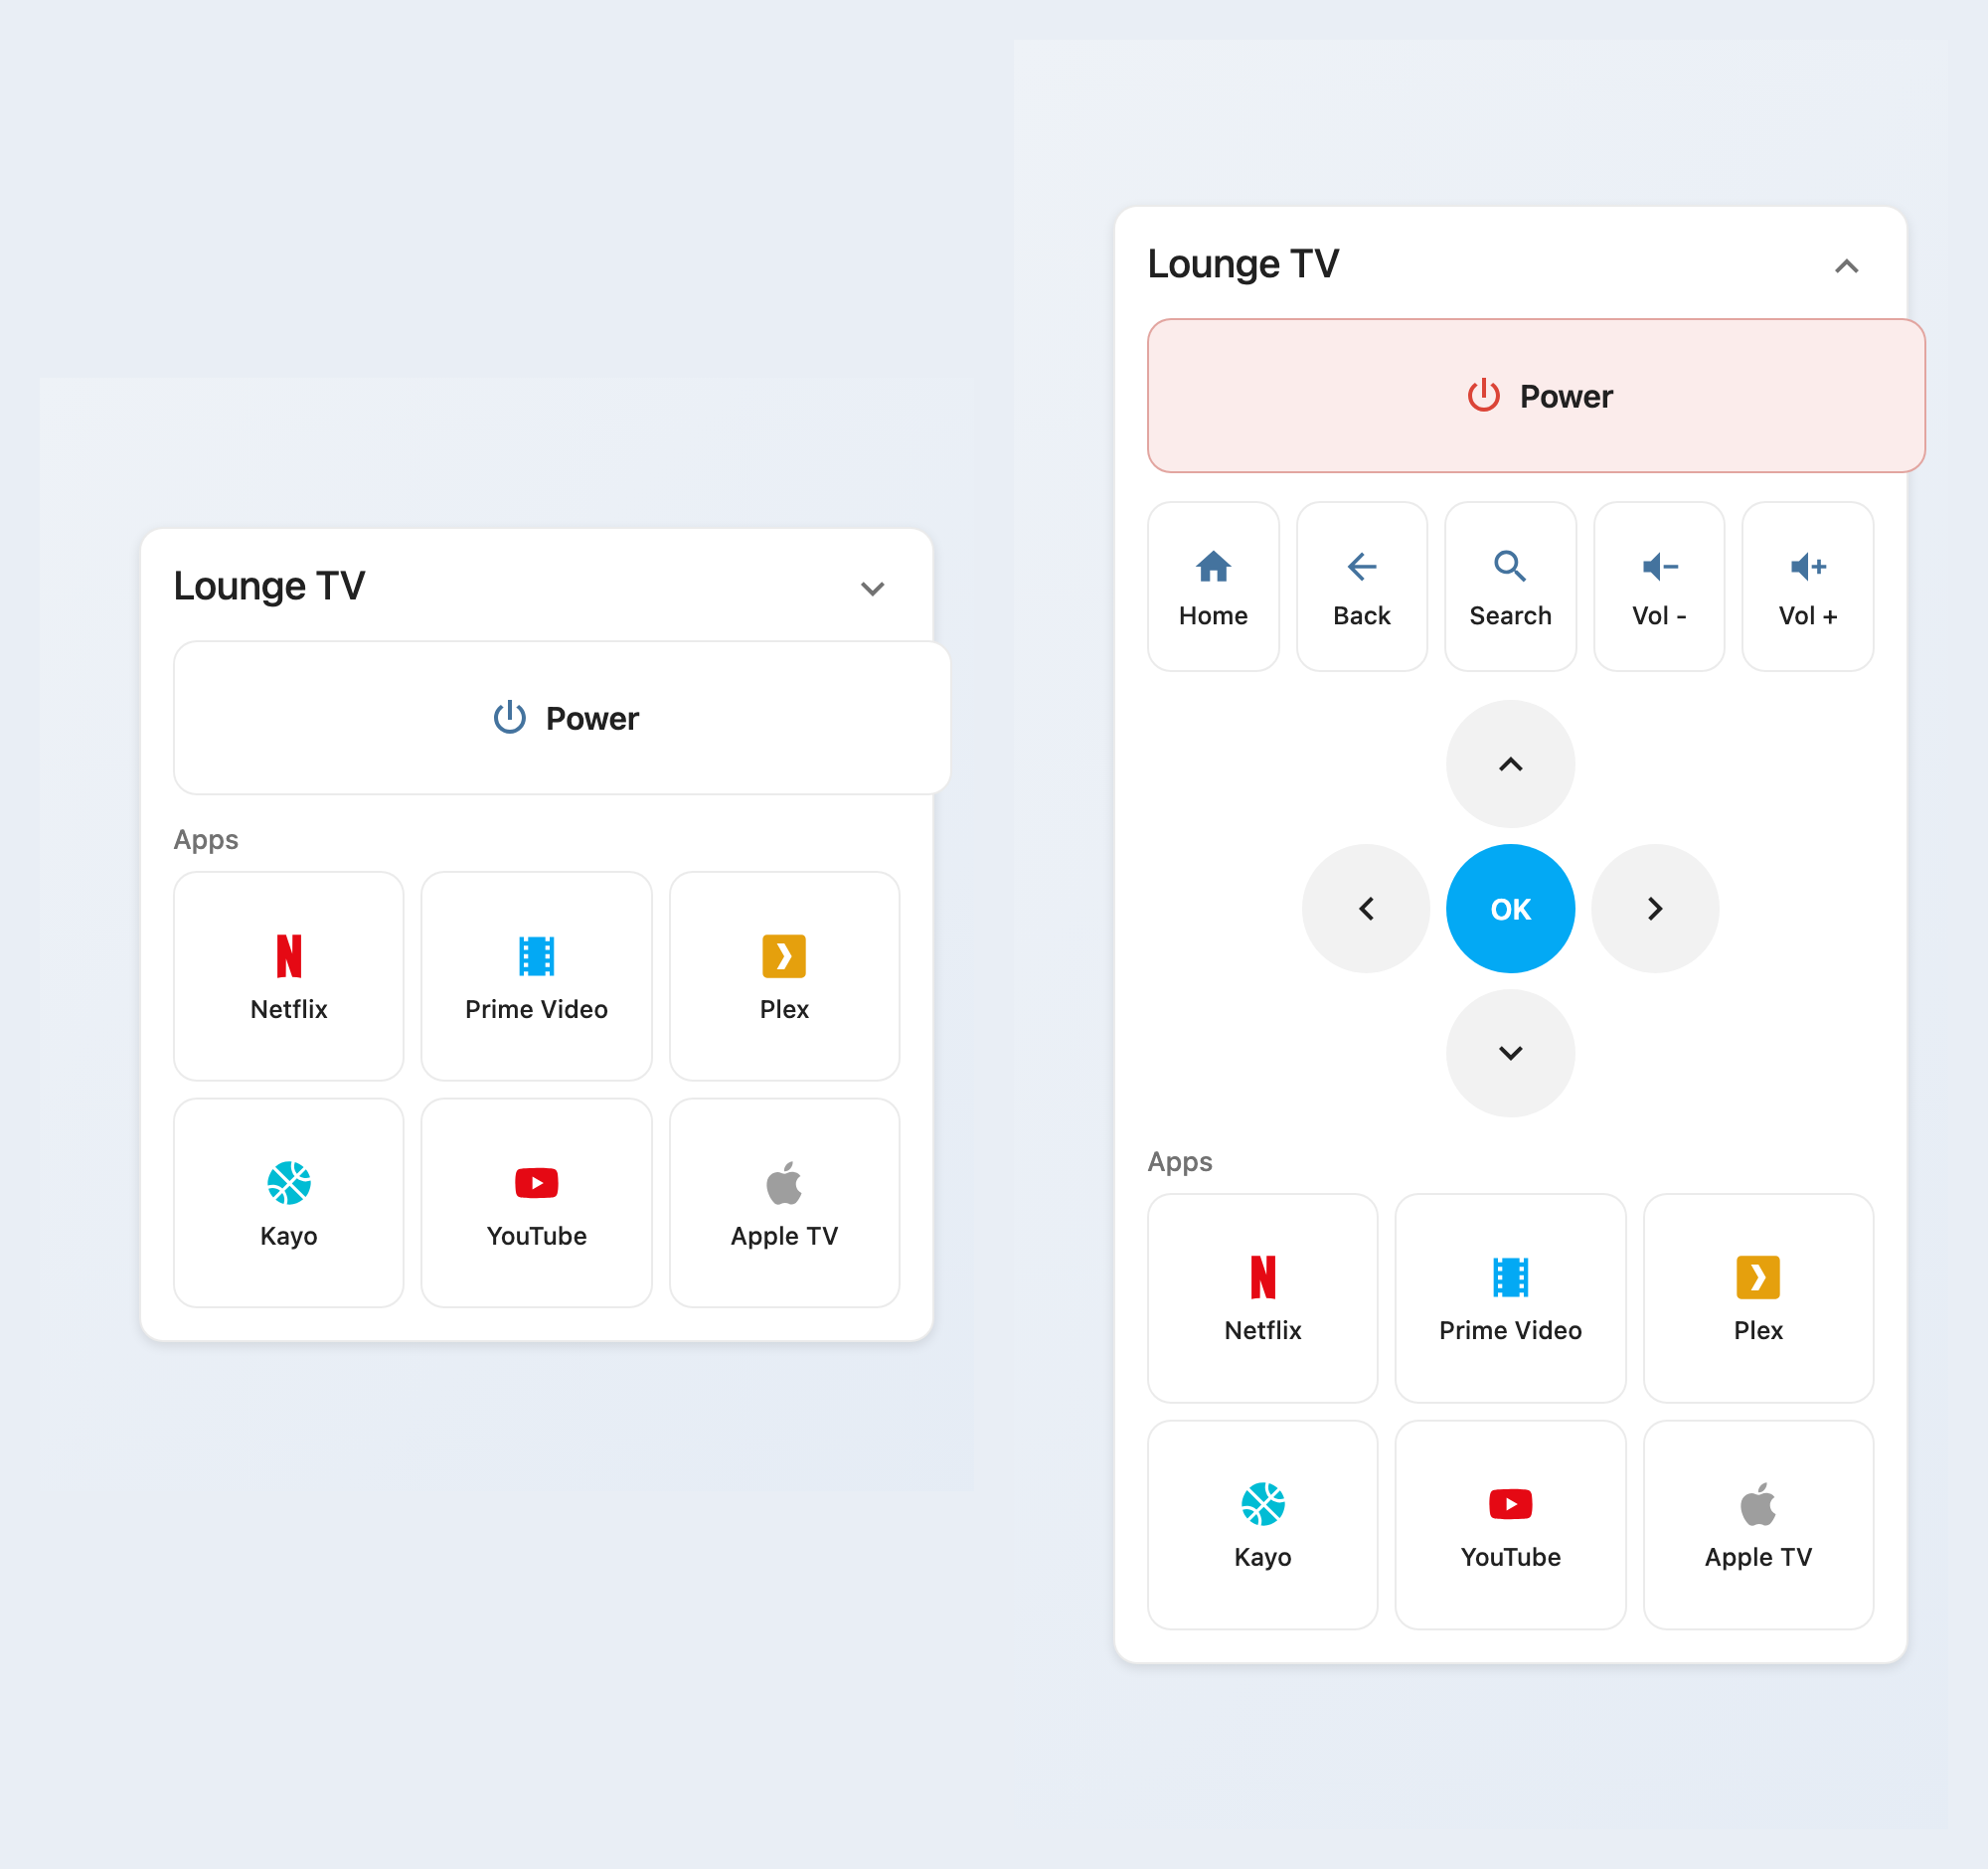
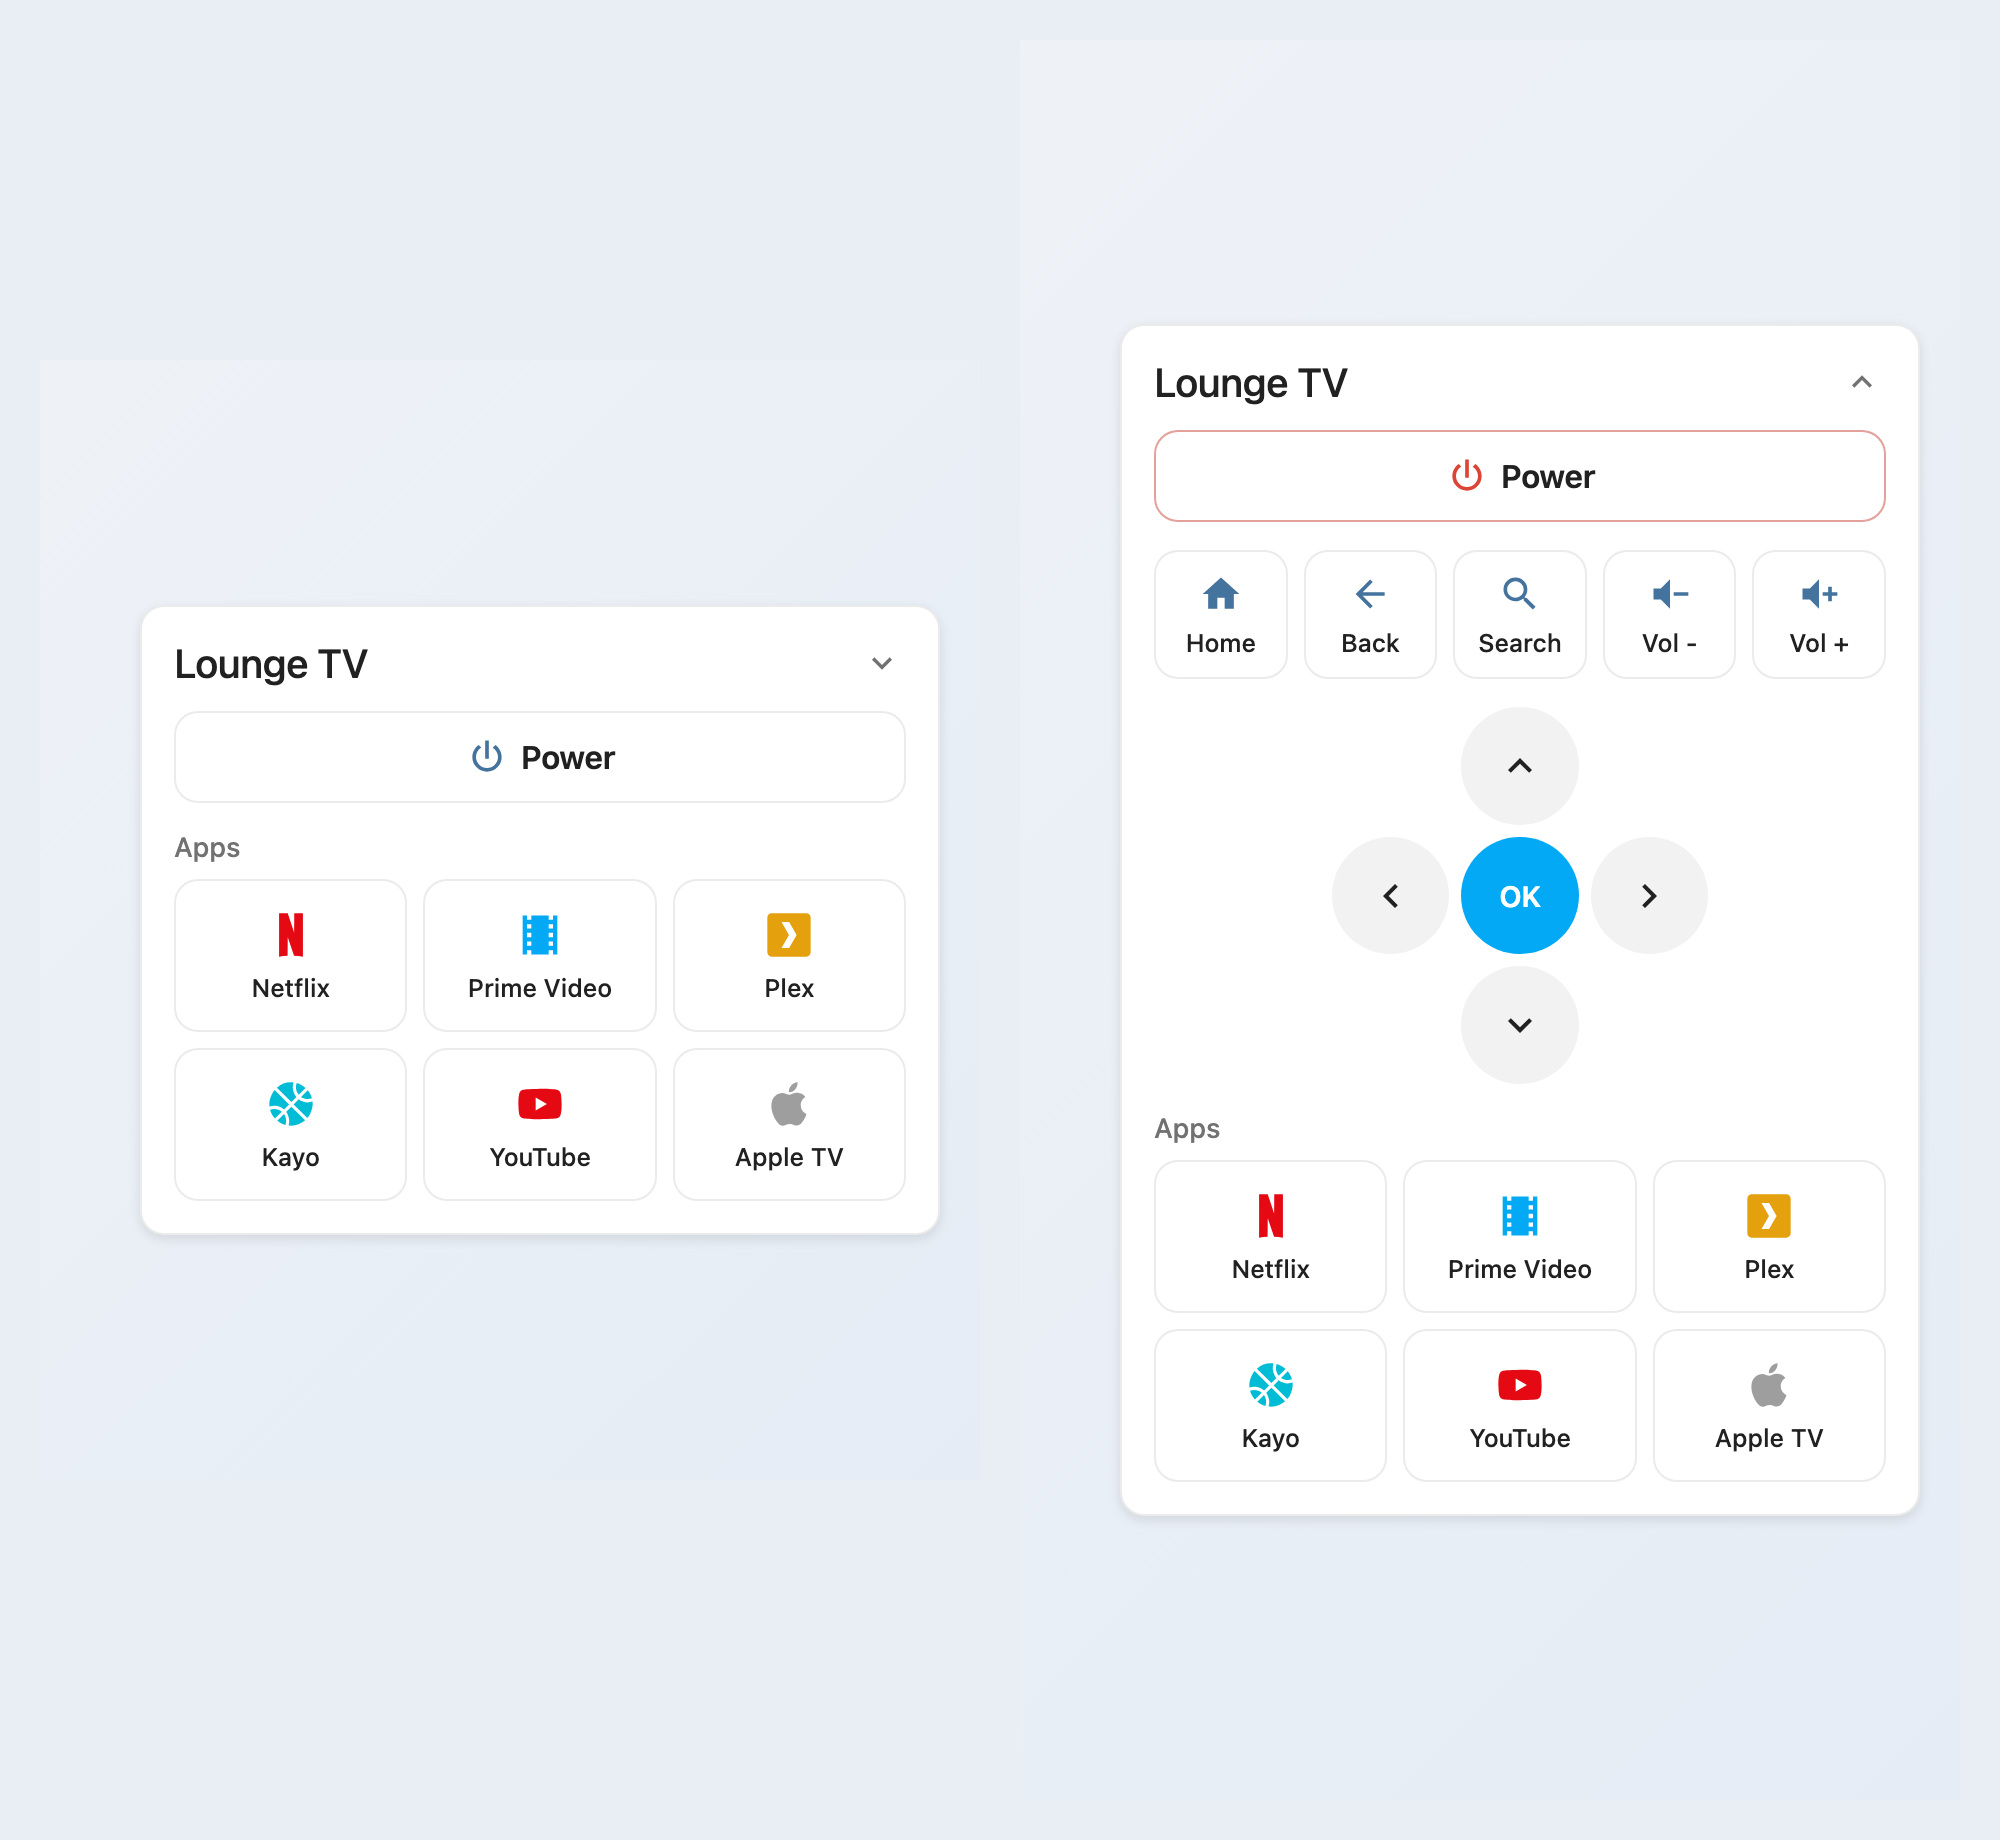
v1.3.1: fix tile overflow (box-sizing), calmer power on-state (no pink fill), tighter D-pad

diff --git a/androidtv-remote-card.js b/androidtv-remote-card.js
@@ -21,7 +21,7 @@
  * MIT License — Jason Crouch. Icons: Material Design Icons via ha-icon.
  */
 
-const ATV_CARD_VERSION = '1.3.0';
+const ATV_CARD_VERSION = '1.3.1';
 
 // A sensible default app-shortcut set, offered as a one-click "Add common
 // apps" button in the editor. `package` accepts an application ID (com.foo.bar)
@@ -117,6 +117,7 @@ class AndroidTvRemoteCard extends HTMLElement {
     root.innerHTML = `
       <style>
         :host { display: block; }
+        .atv-card, .atv-card * { box-sizing: border-box; }
         .atv-card { padding: 16px; }
         .atv-header {
           display: flex; align-items: baseline; gap: 6px;
@@ -142,15 +143,13 @@ class AndroidTvRemoteCard extends HTMLElement {
         .tile ha-icon { color: var(--state-icon-color, var(--paper-item-icon-color)); }
         .atv-powerbar { margin-bottom: 14px; }
         .atv-power {
-          width: 100%; padding: 12px; min-height: 52px; font-weight: 600;
+          width: 100%; padding: 10px 12px; min-height: 46px; font-weight: 600;
         }
-        .atv-power ha-icon { --mdc-icon-size: 24px; color: var(--state-icon-color, var(--paper-item-icon-color)); }
+        .atv-power ha-icon { --mdc-icon-size: 22px; color: var(--state-icon-color, var(--paper-item-icon-color)); }
         .atv-power span { color: var(--primary-text-color); }
+        /* "On" is signalled quietly: red power icon + a subtle accent border. */
         .atv-power.on ha-icon { color: var(--error-color, #db4437); }
-        .atv-power.on {
-          background: color-mix(in srgb, var(--error-color, #db4437) 10%, var(--card-background-color, #fff));
-          border-color: color-mix(in srgb, var(--error-color, #db4437) 35%, var(--divider-color, #e0e0e0));
-        }
+        .atv-power.on { border-color: color-mix(in srgb, var(--error-color, #db4437) 45%, var(--divider-color, #e0e0e0)); }
         .atv-controls { margin-bottom: 14px; }
         .atv-row {
           display: grid; grid-template-columns: repeat(5, 1fr); gap: 8px; margin-bottom: 14px;
@@ -159,8 +158,8 @@ class AndroidTvRemoteCard extends HTMLElement {
         .atv-row .tile ha-icon { --mdc-icon-size: 22px; }
         .atv-row .tile span { font-size: 0.78rem; font-weight: 500; color: var(--primary-text-color); }
         .atv-dpad {
-          display: grid; grid-template-columns: repeat(3, 1fr); gap: 8px;
-          width: 210px; margin: 0 auto;
+          display: grid; grid-template-columns: repeat(3, 1fr); gap: 6px;
+          width: 188px; margin: 0 auto;
         }
         .atv-dbtn {
           display: flex; align-items: center; justify-content: center;